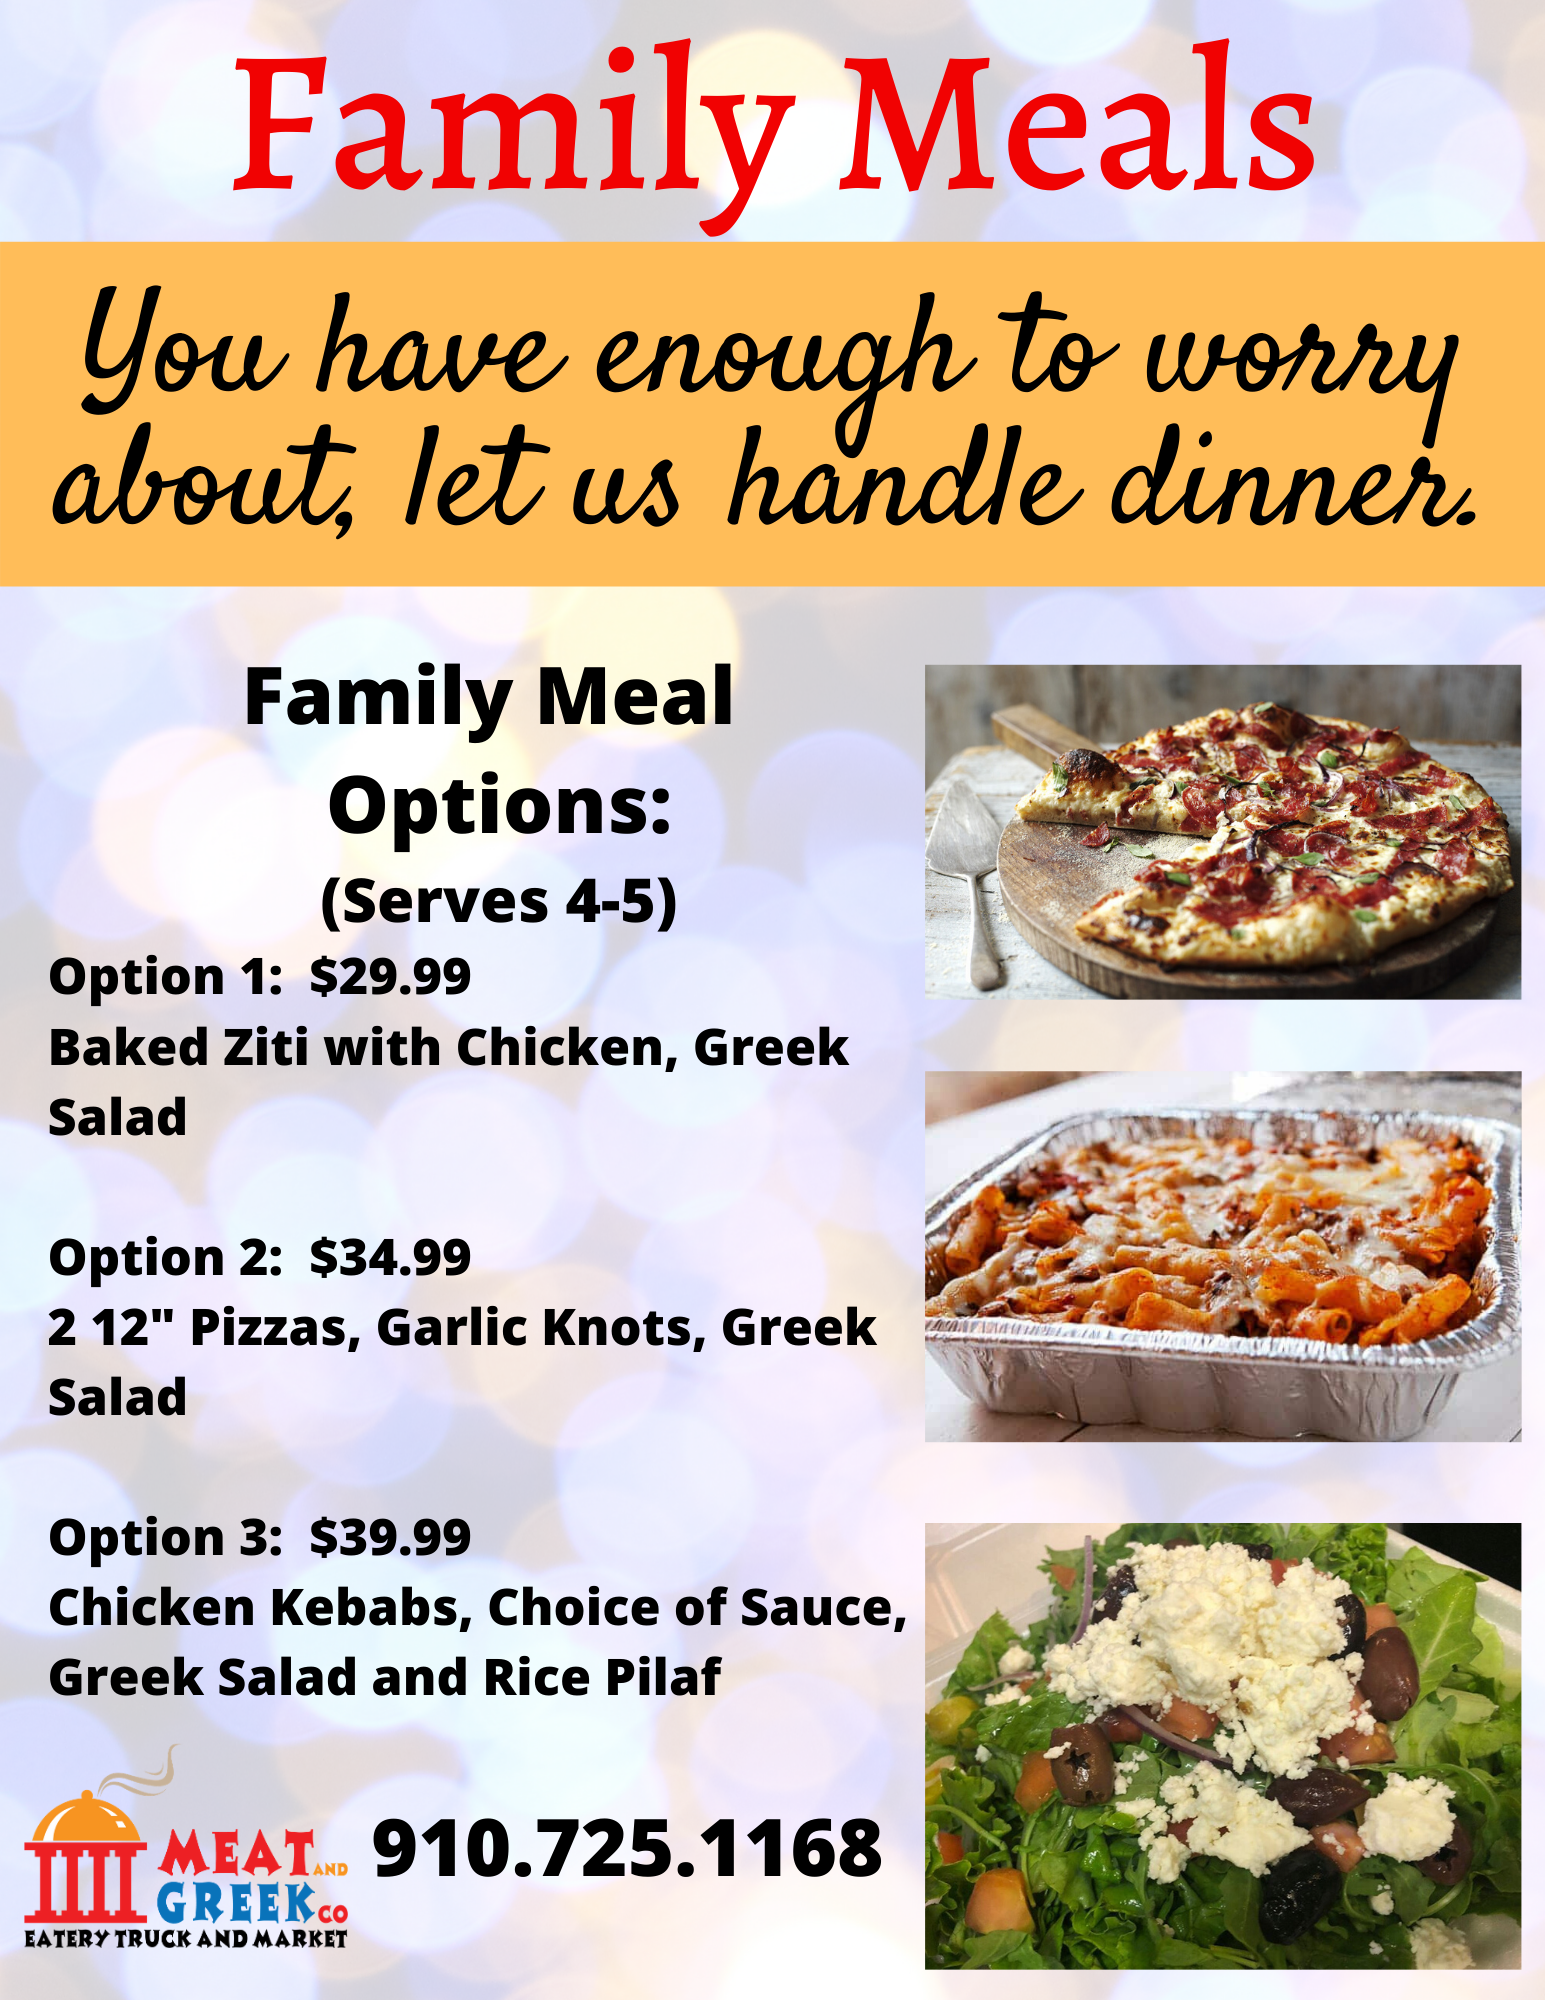
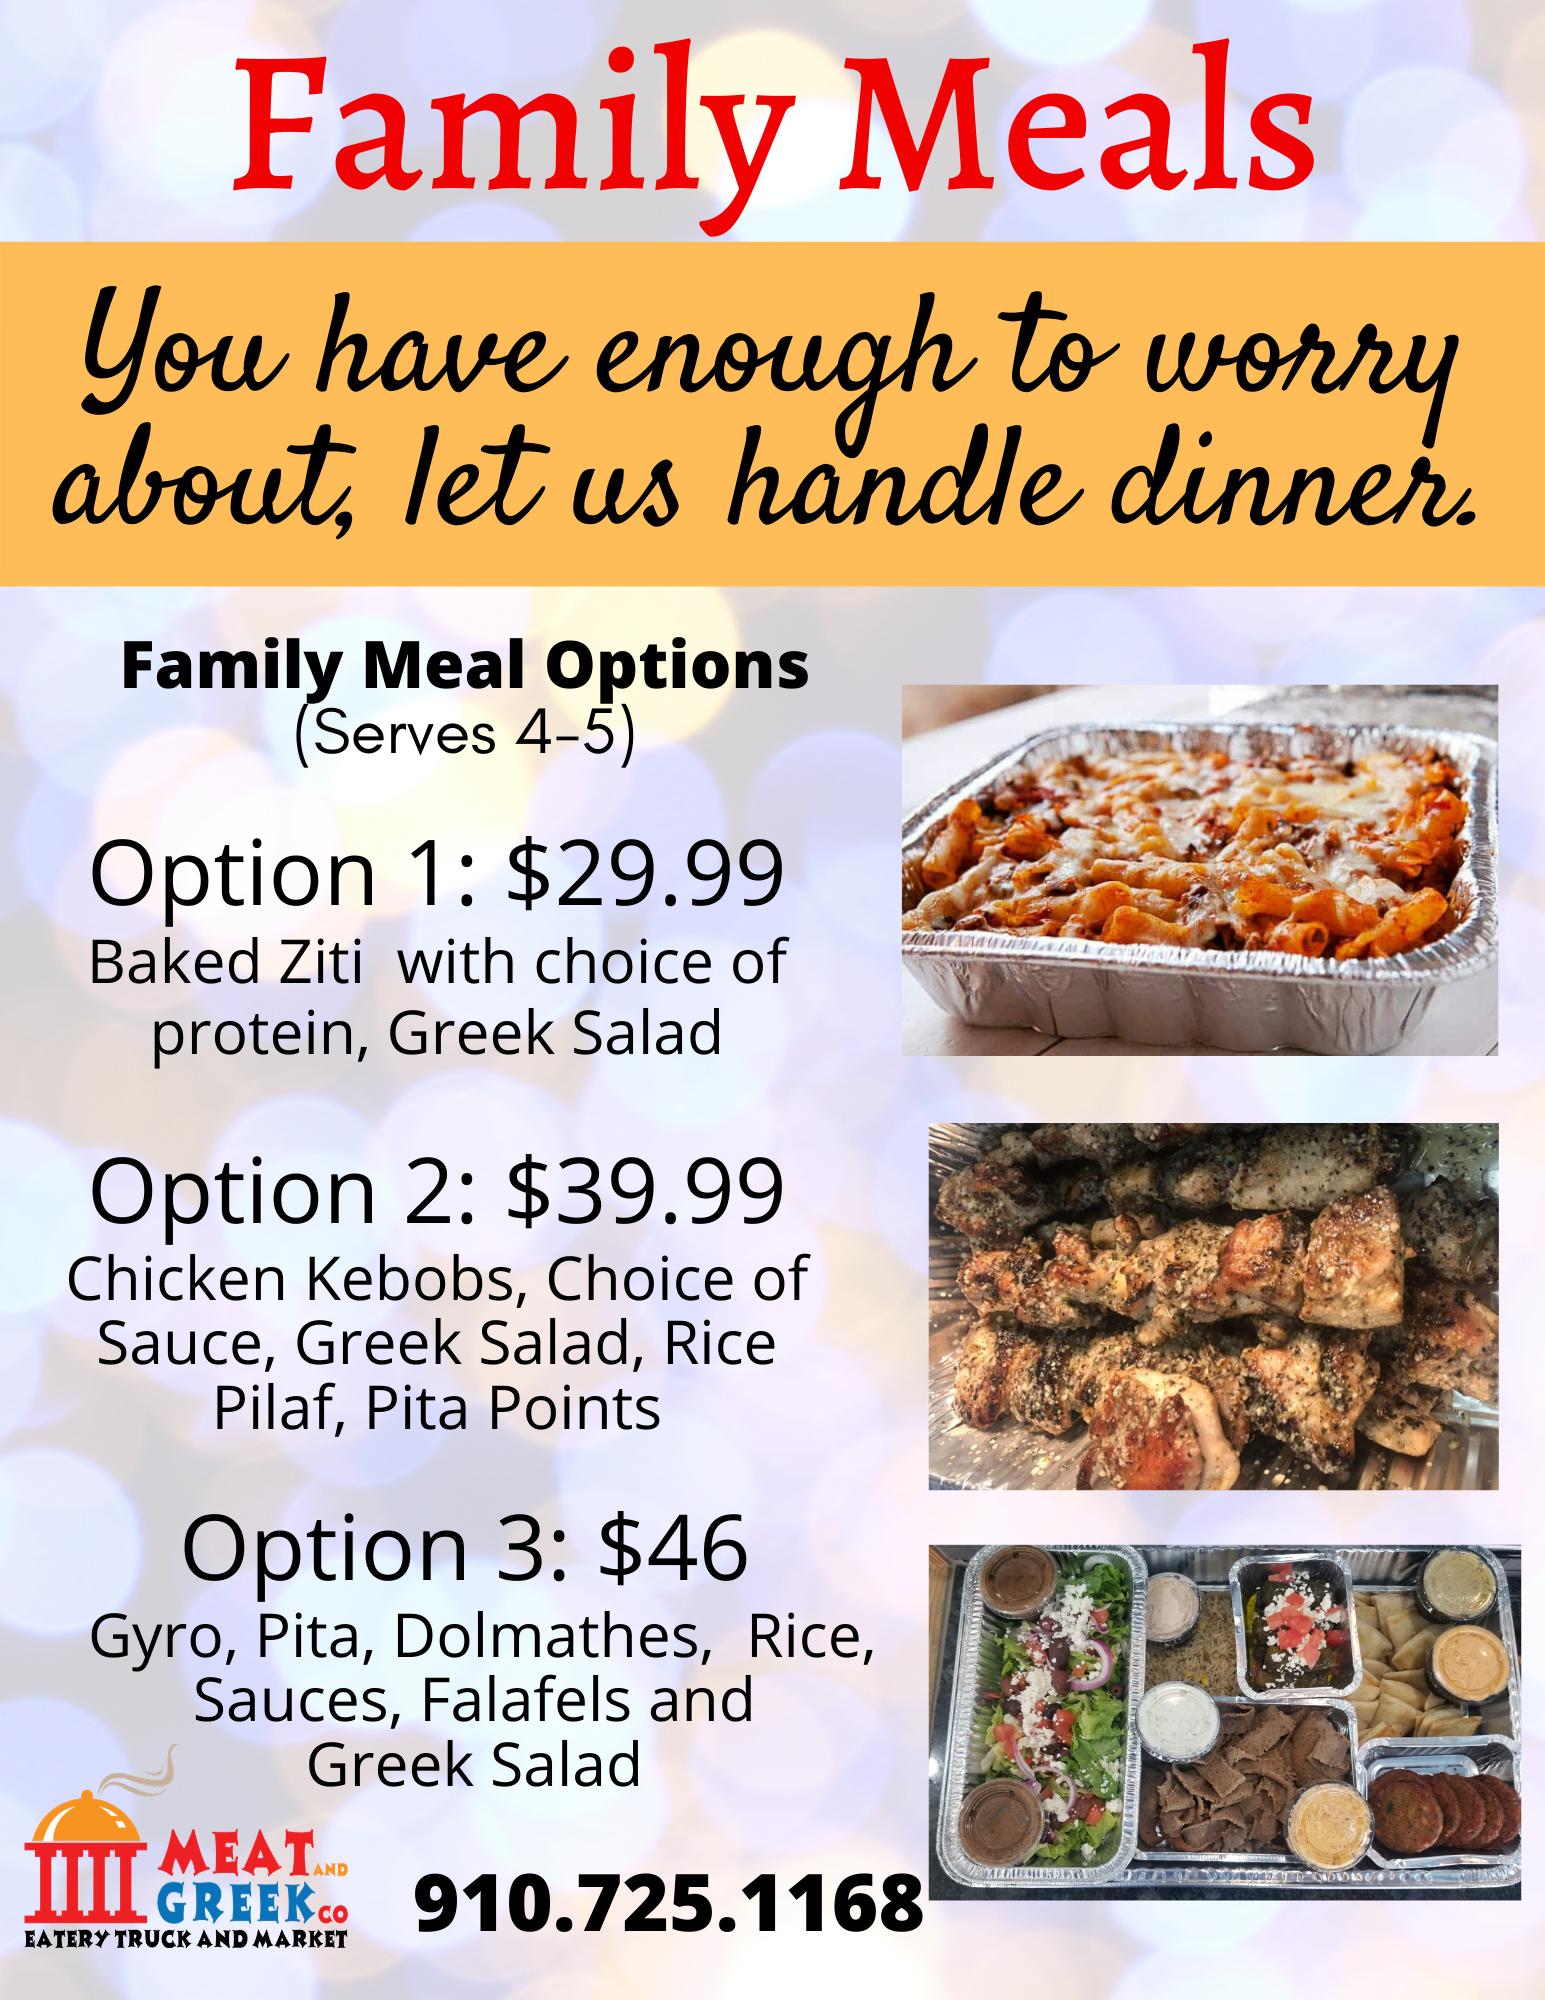
updated family meal deal oops

diff --git a/eatery.html b/eatery.html
@@ -52,7 +52,7 @@
     <div class="menus">
       <img src="images/current_togo_june.png" alt="Meat and Greek Eatery Menu">
       <h1>Try some of our Family Style Meal Plans!</h1>
-      <img src="images/Family_meals1.png" alt="Family Meal Options">
+      <img src="images/Family_meals.png" alt="Family Meal Options">
     </div>
 
 
